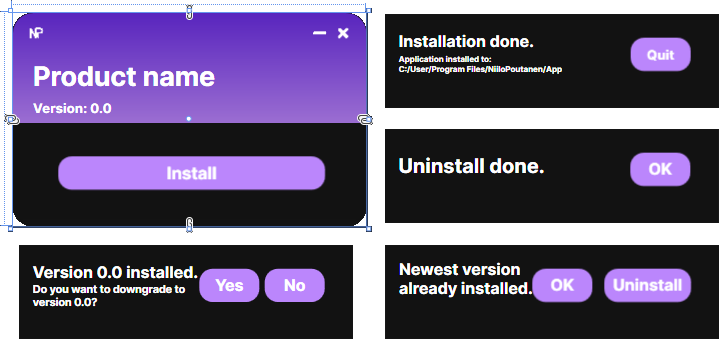
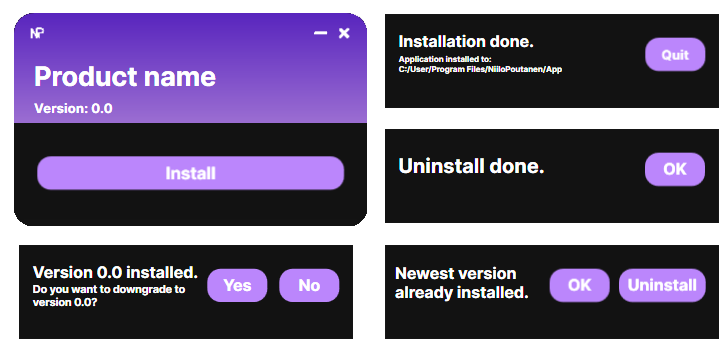
updated demo image

diff --git a/WPF/WPFinstaller/WPFinstaller/MainWindow.xaml b/WPF/WPFinstaller/WPFinstaller/MainWindow.xaml
@@ -17,7 +17,7 @@
         <Image x:Name="LogoIMG" Source="/Resources/Logo.png" Style="{StaticResource NavBarButton}" HorizontalAlignment="Left" Margin="25,20,0,0" MouseLeftButtonDown="GithubButton_Click" Cursor="Hand" Panel.ZIndex="1"/>
         <Border BorderBrush="#121212" CornerRadius="30" Background="#121212" Panel.ZIndex="-1"></Border>
         <Grid x:Name="InstallPanel" Width="500" Height="140" VerticalAlignment="Bottom" Margin="0,0,0,10" Background="#121212">
-            <Border x:Name="InstallBTN" Style="{StaticResource ButtonHover}" Background="#bb86fc" Width="430" Height="50" CornerRadius="20" Cursor="Hand" Panel.ZIndex="1" MouseLeftButtonDown="InstallBorder_Click" Margin="0,45,0,45" HorizontalAlignment="Center">
+            <Border x:Name="InstallBTN" Style="{StaticResource ButtonHover}" Background="#bb86fc" Width="460" Height="50" CornerRadius="20" Cursor="Hand" Panel.ZIndex="1" MouseLeftButtonDown="InstallBorder_Click" Margin="0,45,0,45" HorizontalAlignment="Center">
                 <TextBlock FontFamily="./Resources/#Inter" x:Name="InstallText" Foreground="white" FontSize="25" FontWeight="Bold" Cursor="Hand" MouseLeftButtonDown="InstallBorder_Click" HorizontalAlignment="Center" VerticalAlignment="Center"><Run Text="Install"/></TextBlock>
             </Border>
         </Grid>
